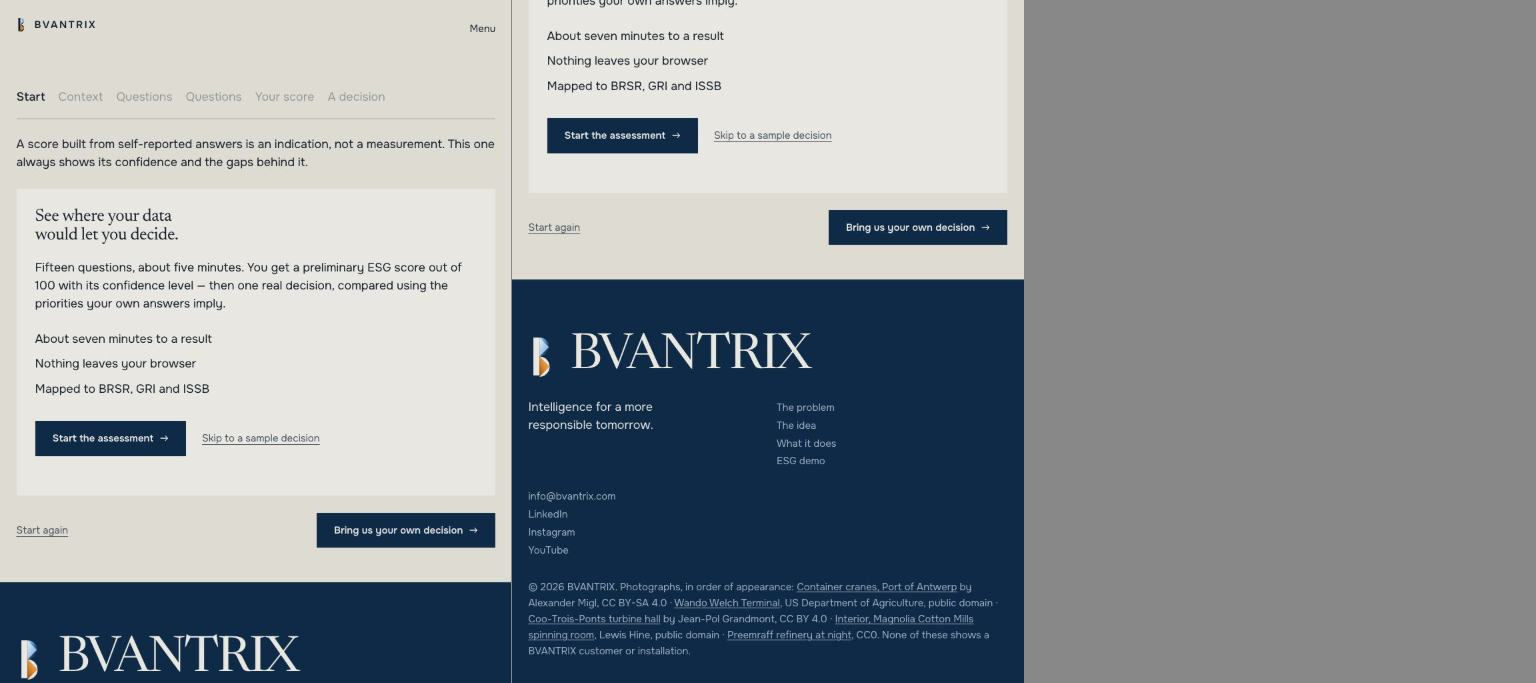
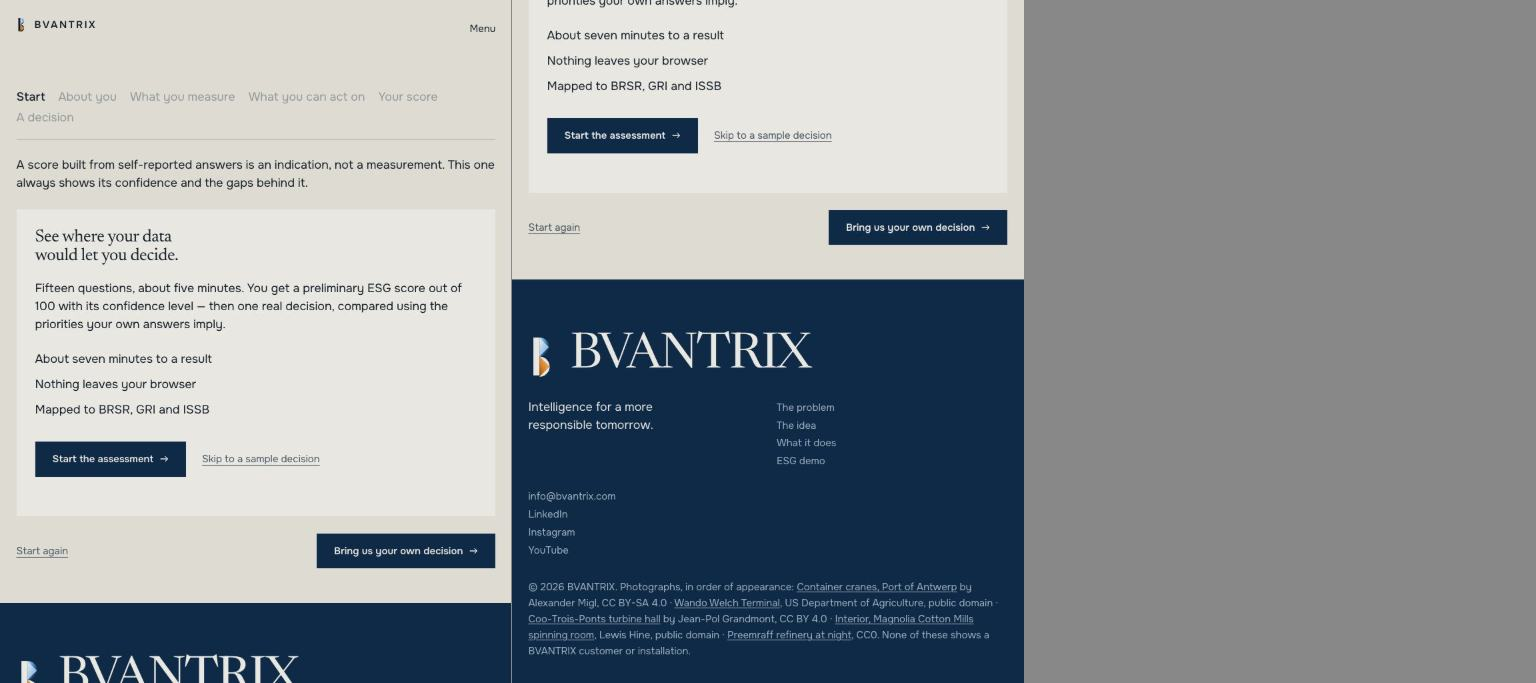
Name the two question steps for what they ask
The rail read Start, Context, Questions, Questions, Your score, A
decision. Two steps with the same name tell a visitor neither which
one they are on nor what the difference between them is, which is the
only job a rail has.

Each step is now named after its own heading, so the rail and the
screen agree: Start, About you, What you measure, What you can act on,
Your score, A decision. The split was never arbitrary — the first
eight questions ask what an organisation measures, the last seven ask
what it can do with it — and the rail says so now.

Verified: no duplicate labels, and each one matches the heading of the
step it names.

diff --git a/js/esg-demo.js b/js/esg-demo.js
@@ -28,11 +28,14 @@
     skipped: false                     // came straight to the decision
   };
 
+  /* Each label is the step's own heading. Two steps both called
+     "Questions" told a visitor nothing about which one they were on or
+     what the difference between them was. */
   var STEPS = [
     { n: 1, label: 'Start' },
-    { n: 2, label: 'Context' },
-    { n: 3, label: 'Questions' },
-    { n: 4, label: 'Questions' },
+    { n: 2, label: 'About you' },
+    { n: 3, label: 'What you measure' },
+    { n: 4, label: 'What you can act on' },
     { n: 5, label: 'Your score' },
     { n: 6, label: 'A decision' }
   ];

diff --git a/esg-demo.html b/esg-demo.html
@@ -256,6 +256,6 @@
 
 <script src="js/main.js?v=9.9"></script>
 <script src="js/esg-demo-data.js?v=1.0"></script>
-<script src="js/esg-demo.js?v=2.5"></script>
+<script src="js/esg-demo.js?v=2.6"></script>
 </body>
 </html>
